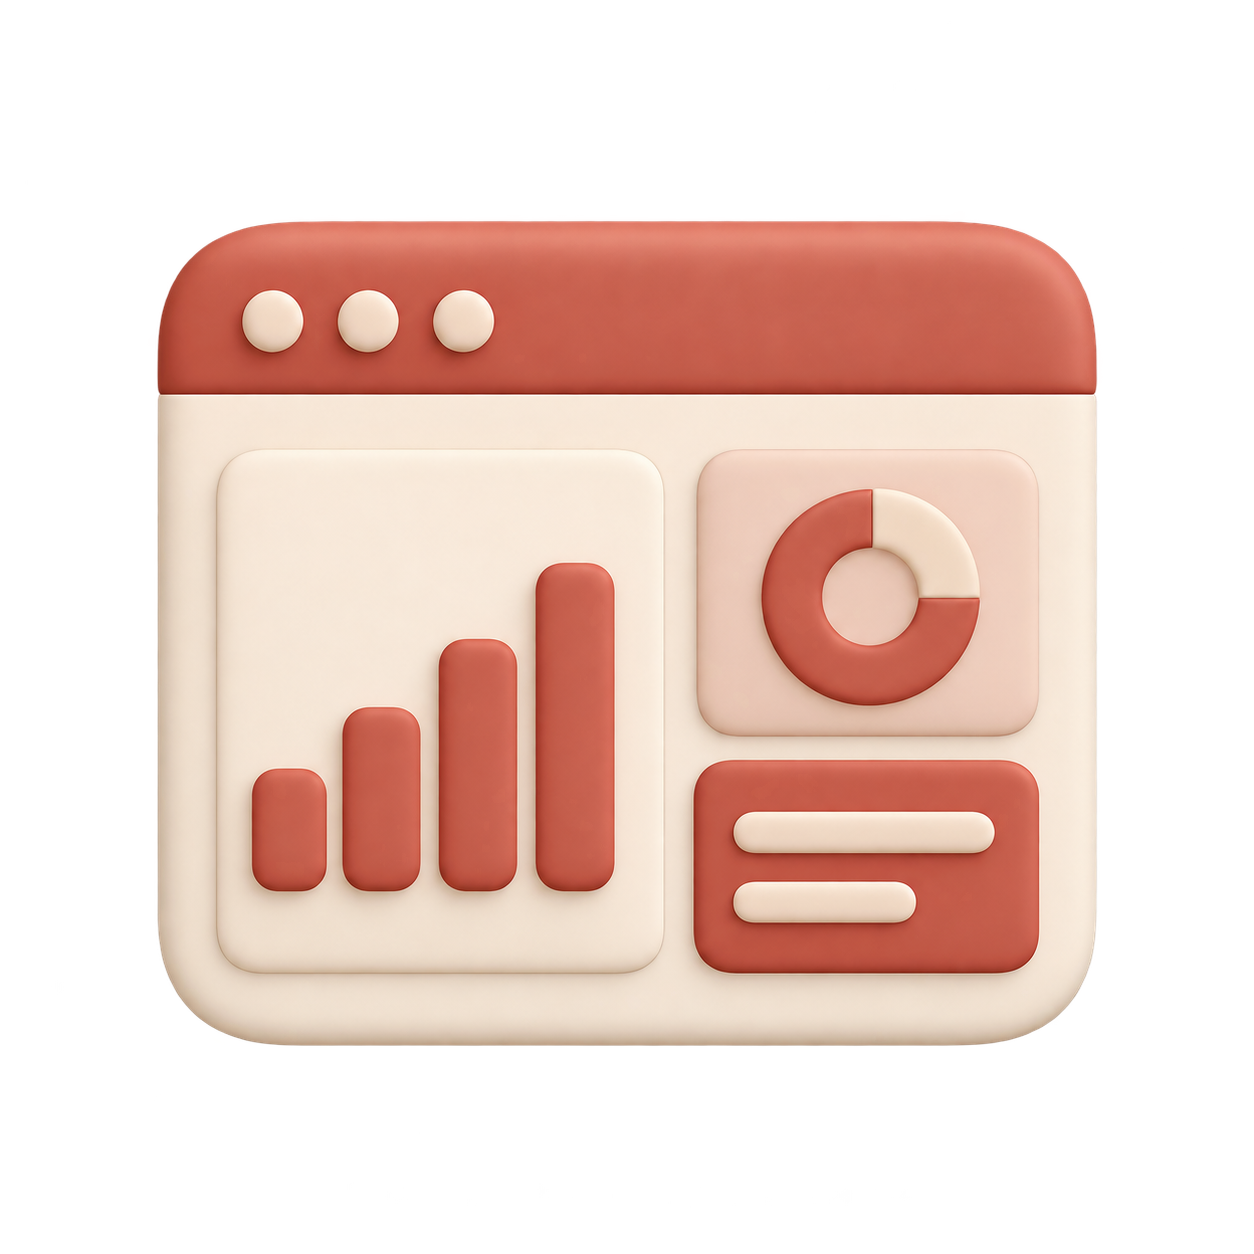
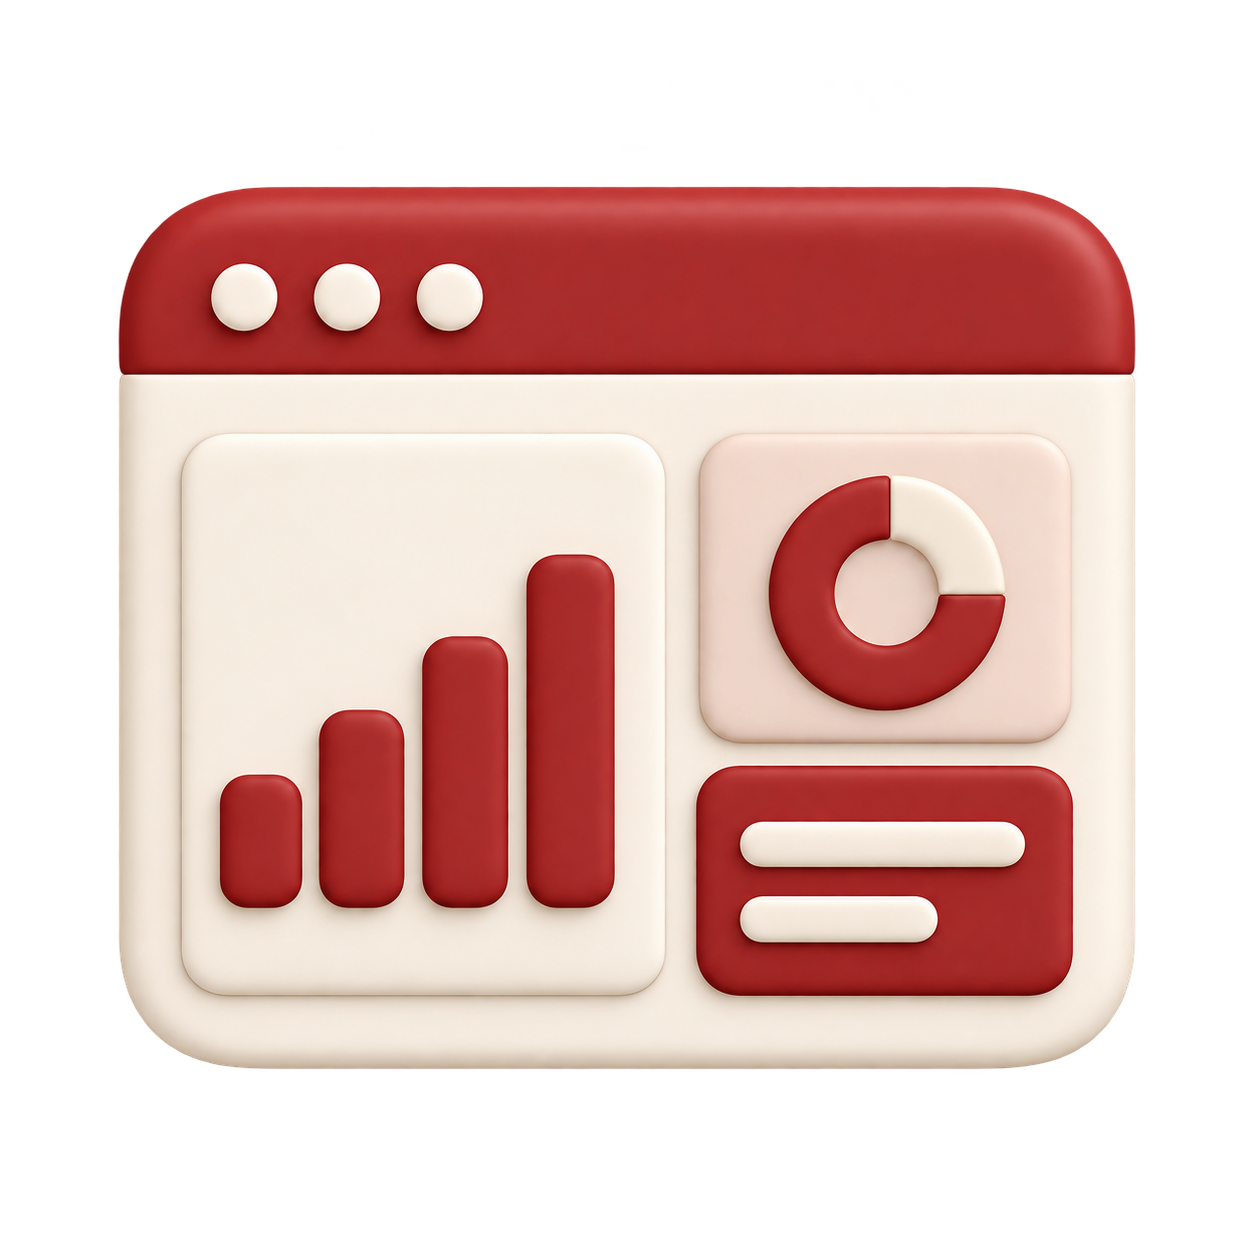
Refine mobile header and account visuals

diff --git a/app/globals.css b/app/globals.css
@@ -1113,7 +1113,7 @@ h1 > span {
     gap: 4px;
   }
   .mobile-menu {
-    margin-right: 4px;
+    margin-right: 14px;
   }
   .header-actions .admin-link {
     display: none;
@@ -1300,6 +1300,17 @@ h1 > span {
 }
 .lunar-page-heading {
   margin-bottom: 18px;
+}
+.calendar-today-button {
+  border-color: #d8c7b1 !important;
+  background: #fff !important;
+  color: var(--primary) !important;
+  box-shadow: 0 2px 7px #3d2e1708;
+}
+.calendar-today-button:hover {
+  border-color: #b88a59 !important;
+  background: #fffaf3 !important;
+  color: var(--primary) !important;
 }
 .page-heading h1 {
   font-size: 32px;

diff --git a/components/genealogy/lunar-calendar.tsx b/components/genealogy/lunar-calendar.tsx
@@ -74,7 +74,7 @@ export function LunarPage() {
           </div>
           <Button
             variant="outline"
-            className="action-button"
+            className="action-button calendar-today-button"
             onClick={() => {
               setMonth(today);
               setSelected(today);
